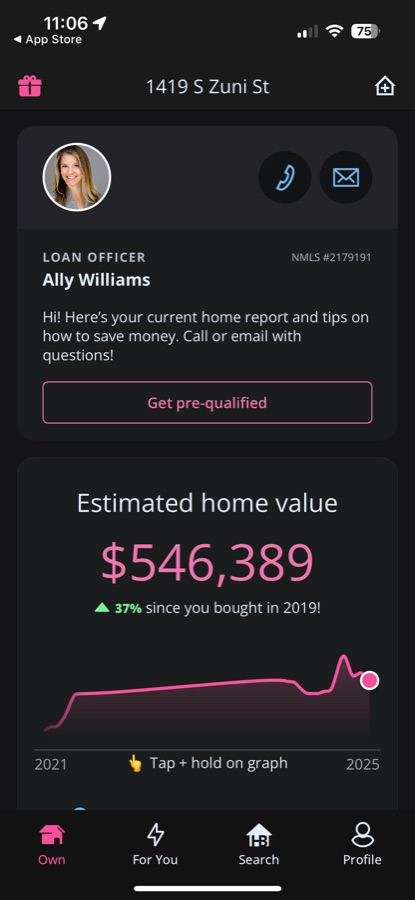
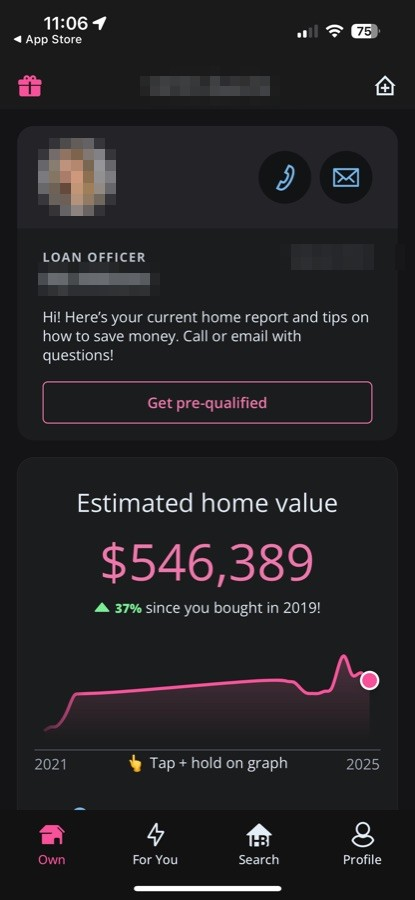
Homebot: redact personal and customer details in screenshots
Pixelates a real street address, ZIP, and a loan officer's name, photo
and NMLS number in the mobile digest screens, and individual customer
and partner names on the research board. Originals kept privately.

diff --git a/work/homebot.html b/work/homebot.html
@@ -55,7 +55,7 @@
       </ul>
 
       <figure class="phones-strip" style="--span:12">
-        <img src="../assets/homebot-mobile-1.jpg" alt="Homeowner digest on mobile: an agent card above the estimated home value, $546,389, with a value trend." loading="eager" width="415" height="900"><img src="../assets/homebot-mobile-2.jpg" alt="Your Market: a balanced market with homes selling in about 72 days." loading="eager" width="415" height="900"><img src="../assets/homebot-mobile-3.jpg" alt="Market details: homes selling, days on market, and signals about whether it is a good time to sell." loading="eager" width="415" height="900"><img src="../assets/homebot-mobile-4.jpg" alt="Should you sell?: strong signals, with projected cash from a sale." loading="eager" width="415" height="900"><img src="../assets/homebot-mobile-5.jpg" alt="A slider showing what selling now could buy in a next home." loading="eager" width="415" height="900"><img src="../assets/homebot-mobile-6.jpg" alt="Refinance savings: paying a little more each month and how much interest it saves." loading="eager" width="415" height="900">
+        <img src="../assets/homebot-mobile-1.jpg?v=2" alt="Homeowner digest on mobile: an agent card above the estimated home value, $546,389, with a value trend." loading="eager" width="415" height="900"><img src="../assets/homebot-mobile-2.jpg?v=2" alt="Your Market: a balanced market with homes selling in about 72 days." loading="eager" width="415" height="900"><img src="../assets/homebot-mobile-3.jpg?v=2" alt="Market details: homes selling, days on market, and signals about whether it is a good time to sell." loading="eager" width="415" height="900"><img src="../assets/homebot-mobile-4.jpg?v=2" alt="Should you sell?: strong signals, with projected cash from a sale." loading="eager" width="415" height="900"><img src="../assets/homebot-mobile-5.jpg?v=2" alt="A slider showing what selling now could buy in a next home." loading="eager" width="415" height="900"><img src="../assets/homebot-mobile-6.jpg?v=2" alt="Refinance savings: paying a little more each month and how much interest it saves." loading="eager" width="415" height="900">
         <figcaption>The homeowner digest on mobile: home value, market, sell signals, next-home affordability, and refinance savings.</figcaption>
       </figure>
       <section class="cs-section spread" id="s-context" style="--span:5">
@@ -173,7 +173,7 @@
             <li><b>Compare</b><span>insights across problem areas</span></li>
           </ol></div>
             <div><figure class="stage" style="--st: var(--c-homebot)">
-            <img src="../assets/homebot-research-board.jpg" alt="A shared board of sticky notes grouping what customers asked about and the biggest pain points they mentioned." loading="lazy" width="1800" height="1146">
+            <img src="../assets/homebot-research-board.jpg?v=2" alt="A shared board of sticky notes grouping what customers asked about and the biggest pain points they mentioned." loading="lazy" width="1800" height="1146">
             <figcaption>A board from one session: what customers asked about most, and where it hurt.</figcaption>
           </figure></div>
           </div>
